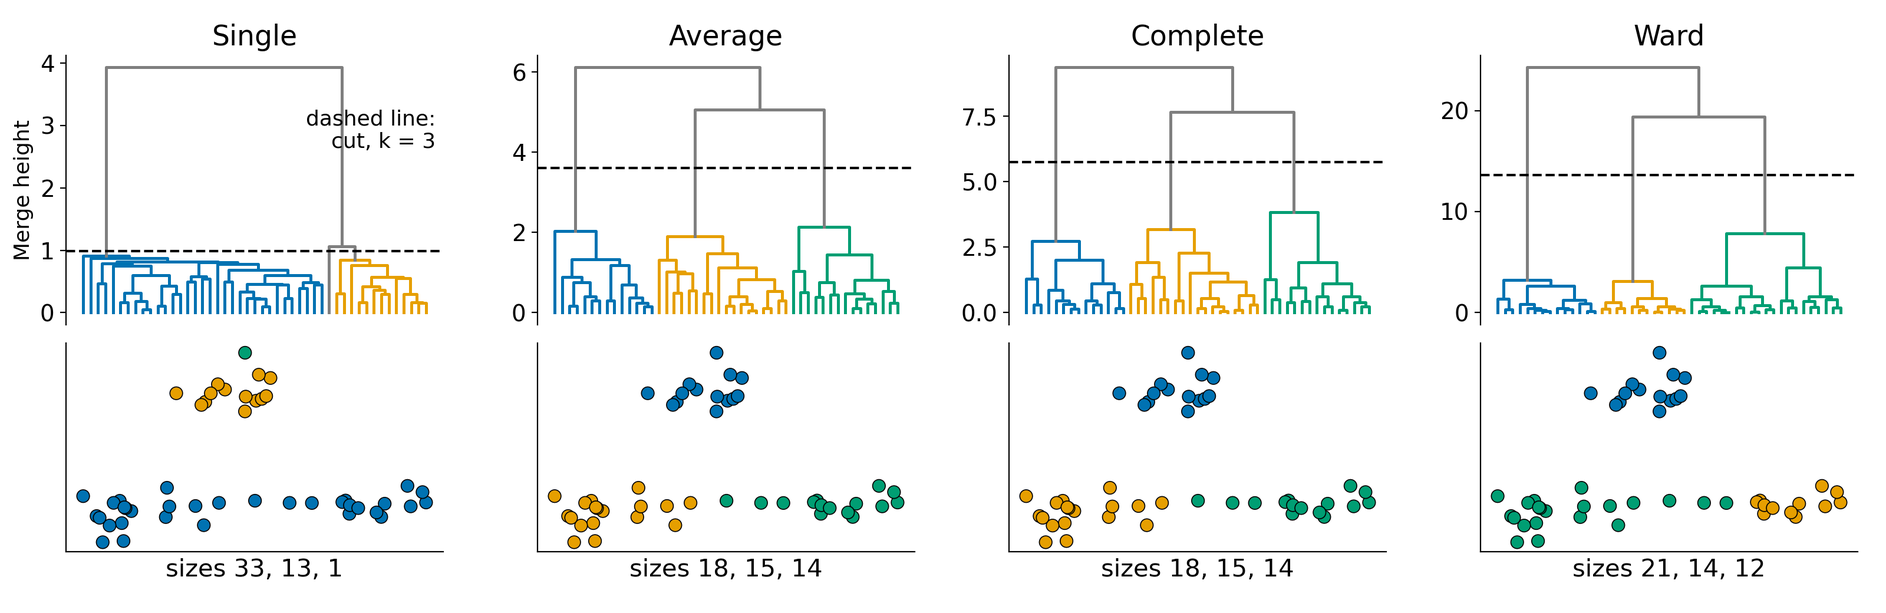
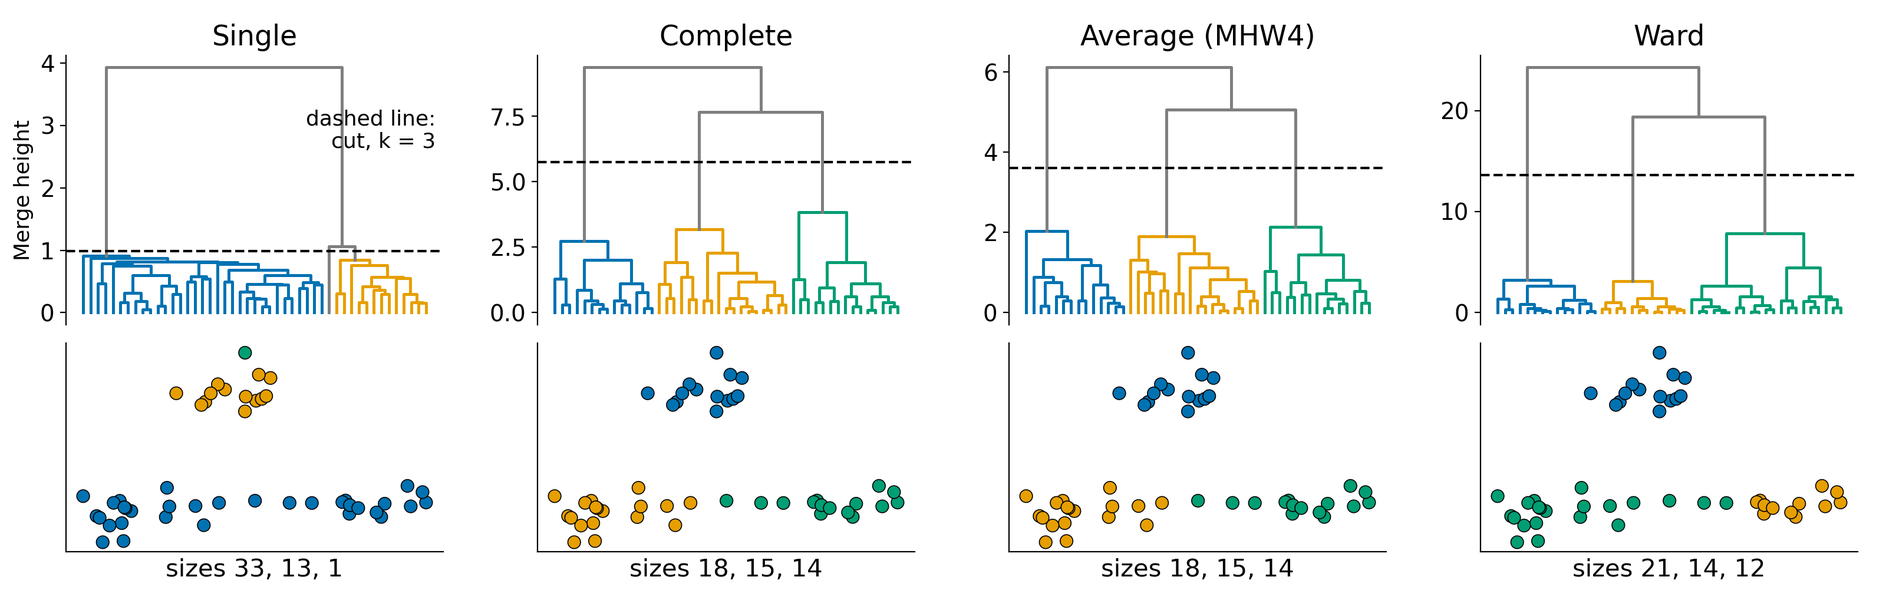
docs: actualiza el deck ReMoHES 2026

diff --git a/docs/remohes2026_deck/index.html b/docs/remohes2026_deck/index.html
@@ -177,8 +177,8 @@ Francois Colas
 </video>
 </div><div class="column" style="width:25%;">
 <ul>
-<li>El calor anómalo aparece, crece, se desplaza y se fragmenta</li>
-<li>El Niño 2023-2024: el último que recordamos</li>
+<li>El calentamiento aparece, crece, se desplaza y se fragmenta</li>
+<li>El Niño 2023-2024: el último gran calentamiento</li>
 <li>¿Qué píxeles forman la misma ola de calor?</li>
 </ul>
 </div></div>
@@ -199,8 +199,8 @@ Francois Colas
           display:block!important;
       }</style></aside>
 </section>
-<section id="detección-de-ocm" class="slide level2">
-<h2>Detección de OCM</h2>
+<section id="detección-de-ocm-hobday-et-al.-2016" class="slide level2">
+<h2>Detección de OCM (Hobday et al., 2016)</h2>
 <!-- [2] -->
 <img data-src="assets/i1b_mhw_definition.png" class="r-stretch" alt="Serie diaria sintética en Ilo con climatología, umbral P90, una ola de calor marina con su duración, intensidad máxima e intensidad acumulada, y un pico corto que no llega a 5 días">
 <div class="caption">
@@ -511,15 +511,15 @@ Francois Colas
 <section id="cómo-elegir-k" class="slide level2">
 <h2>Cómo elegir k</h2>
 <!-- [15] -->
-<p><img data-src="assets/c6_choose_k.png" alt="Inercia, silhouette media y estabilidad ARI entre submuestras frente a k, para los mismos puntos del interactivo" height="400"></p>
+<p><img data-src="assets/c6_choose_k.png" alt="Inercia y silhouette media frente a k, y silhouette de cada punto con k = 4, para los mismos puntos del interactivo" height="400"></p>
 <div class="columns formula">
 <div class="column" style="width:50%;">
-<p><strong>Silhouette</strong> de un evento <span class="math inline">\(i\)</span>: <span class="math display">\[s(i) = \frac{b(i) - a(i)}{\max\{a(i),\, b(i)\}} \in [-1, 1]\]</span> <span class="math inline">\(a(i)\)</span>: distancia media a los <strong>otros</strong> eventos de su grupo; <span class="math inline">\(b(i) = \min_{C \neq C(i)}\)</span> distancia media de <span class="math inline">\(i\)</span> a los eventos de <span class="math inline">\(C\)</span>. Se promedia sobre todos los eventos (<span class="math inline">\(s = 0\)</span> si el grupo tiene un solo evento).</p>
+<p><strong>Silhouette</strong> de un evento <span class="math inline">\(i\)</span>: <span class="math display">\[s(i) = \frac{b(i) - a(i)}{\max\{a(i),\, b(i)\}} \in [-1, 1]\]</span> <span class="math inline">\(a(i)\)</span>: distancia media a los <strong>otros</strong> eventos de su grupo; <span class="math inline">\(b(i) = \min_{C \neq C(i)}\)</span> distancia media de <span class="math inline">\(i\)</span> a los eventos de <span class="math inline">\(C\)</span> (<span class="math inline">\(s = 0\)</span> si el grupo tiene un solo evento).</p>
 </div><div class="column" style="width:50%;">
-<p><strong>Estabilidad (ARI)</strong>: dos submuestras del 80 % se agrupan con el mismo <span class="math inline">\(k\)</span> y sus particiones se comparan en los eventos que comparten: <span class="math display">\[\mathrm{ARI} = \frac{\mathrm{RI} - \mathbb{E}[\mathrm{RI}]}{\max \mathrm{RI} - \mathbb{E}[\mathrm{RI}]}\]</span> 1 = misma partición; ≈ 0 = coincidencia al azar. Cada corte se juzga con silhouette, ARI y tamaño de los grupos; los cortes se eligen a mano.</p>
+<p><strong>Cómo se lee</strong> cada barra: <span class="math inline">\(s \approx 1\)</span>, bien dentro de su grupo; <span class="math inline">\(s \approx 0\)</span>, en la frontera; <span class="math inline">\(s &lt; 0\)</span>, más cerca de otro grupo. La media resume, pero la distribución muestra qué grupos son compactos y qué eventos quedan en el borde. Cada corte se juzga con silhouette, estabilidad (respaldo) y tamaño de los grupos.</p>
 </div></div>
 <aside class="notes">
-<p>Los mismos puntos del interactivo de k-means (20 arranques por k): el codo de W y la silhouette coinciden en k = 4. La W óptima no aumenta al añadir grupos, por eso se busca el codo y no el mínimo. En los datos reales ningún índice decide solo: el ARI (índice de Rand ajustado) mide cuánto se repite la partición al submuestrear; RI es la fracción de pares de eventos en los que las dos particiones coinciden (juntos o separados), y el ARI descuenta lo esperable al azar. Un grupo muy pequeño no se interpreta.</p>
+<p>Los mismos puntos del interactivo de k-means (20 arranques por k): el codo de W y la silhouette media coinciden en k = 4. A la derecha, la silhouette de cada punto con k = 4: los cuatro grupos tienen barras parecidas y solo 1 de 118 puntos queda por debajo de 0. La estabilidad ante submuestreo (ARI) está en el respaldo. La W óptima no aumenta al añadir grupos, por eso se busca el codo y no el mínimo. En los datos reales ningún índice decide solo: el ARI (índice de Rand ajustado) mide cuánto se repite la partición al submuestrear; RI es la fracción de pares de eventos en los que las dos particiones coinciden (juntos o separados), y el ARI descuenta lo esperable al azar. Un grupo muy pequeño no se interpreta.</p>
 <style type="text/css">
         span.MJX_Assistive_MathML {
           position:absolute!important;
@@ -532,20 +532,20 @@ Francois Colas
           display:block!important;
       }</style></aside>
 </section>
-<section id="distancias-con-rasgos-tensoriales" class="slide level2">
-<h2>Distancias con rasgos tensoriales</h2>
+<section id="distancias-con-rasgos-tensoriales-stefanon-et-al.-2012" class="slide level2">
+<h2>Distancias con rasgos tensoriales (Stefanon et al., 2012)</h2>
 <!-- [16] -->
 <div class="columns">
 <div class="column" style="width:70%;">
 <p><img data-src="assets/results_deck/tensor_pair.png" alt="Mapas de intensidad media de las olas de calor MHW 1997-1998 y MHW 2021-2024, sus 6 rasgos escalares, y la distancia del par entre todos los pares según escalares y según mapas"></p>
 </div><div class="column formula" style="width:30%;">
-<p><strong>Escalares</strong> (<span class="math inline">\(p = 6\)</span> rasgos escalados): <span class="math display">\[d_E(A,B) = \frac{\lVert \mathbf{x}_A - \mathbf{x}_B \rVert}{\sqrt{p}}\]</span> <strong>Mapas</strong>: <span class="math inline">\(\bar{I}(x)\)</span> = en cada celda, media sobre los días del evento de la intensidad de su evento local. <span class="math inline">\(\mathbf{u}_A\)</span> = ese mapa suavizado (<span class="math inline">\(\sigma = 50\)</span> km), como vector de celdas oceánicas con <span class="math inline">\(\lVert \mathbf{u}_A \rVert = 1\)</span>: <span class="math display">\[d_{\cos}(A,B) = 1 - \mathbf{u}_A \cdot \mathbf{u}_B\]</span></p>
+<p><strong>Escalares</strong> (<span class="math inline">\(p = 6\)</span> rasgos escalados): <span class="math display">\[d_E(A,B) = \frac{\lVert \mathbf{x}_A - \mathbf{x}_B \rVert}{\sqrt{p}}\]</span> <strong>Mapas</strong>, con <span class="math inline">\(T_x\)</span> = días en que la celda <span class="math inline">\(x\)</span> está dentro del evento: <span class="math display">\[D(x) = |T_x|, \qquad \bar{I}(x) = \frac{1}{D(x)} \sum_{t \in T_x} I(x,t)\]</span> (<span class="math inline">\(0\)</span> si la celda no está en el evento). <span class="math inline">\(\mathbf{u}_A\)</span> = el mapa suavizado (<span class="math inline">\(\sigma = 50\)</span> km), como vector de celdas oceánicas con <span class="math inline">\(\lVert \mathbf{u}_A \rVert = 1\)</span>: <span class="math display">\[d_{\cos}(A,B) = 1 - \mathbf{u}_A \cdot \mathbf{u}_B\]</span></p>
 </div></div>
 <div class="caption">
 <p>Detector standard, conectividad 6: los 134 eventos del 10 % superior por área máxima entre los que tocan la franja de 200 km. Cada distancia se divide por la mediana de las distancias positivas.</p>
 </div>
 <aside class="notes">
-<p>Por sus 6 números estas dos olas de calor (MHW 1997-1998 y MHW 2021-2024; nombres por los años que abarcan, son pseudoetiquetas) son un par corriente (el 29 % de los pares está más cerca); por su mapa son el par más parecido de la cohorte (ningún par está más cerca). El coseno compara la forma del mapa, no su nivel: no cambia si un mapa se multiplica por una constante positiva. Celdas oceánicas sin el evento valen 0 antes de suavizar. Nuestra clasificación usa enlace promedio sobre la matriz de disimilitud coseno; k-means sobre los vectores de mapas o Ward con distancia euclidiana serían posibles, pero son otros procedimientos. La MHW 2021-2024 empieza antes de El Niño 2023-2024 y abarca su ventana; llega al final del registro.</p>
+<p>Por sus 6 números estas dos olas de calor (MHW 1997-1998 y MHW 2021-2024; nombres por los años que abarcan, son pseudoetiquetas) son un par corriente (el 29 % de los pares está más cerca); por su mapa son uno de los pares más parecidos de la cohorte (solo 3 de los 8 911 pares están más cerca). El coseno compara la forma del mapa, no su nivel: no cambia si un mapa se multiplica por una constante positiva. Celdas oceánicas sin el evento valen 0 antes de suavizar. Nuestra clasificación usa enlace promedio sobre la matriz de disimilitud coseno; k-means sobre los vectores de mapas o Ward con distancia euclidiana serían posibles, pero son otros procedimientos. La MHW 2021-2024 empieza antes de El Niño 2023-2024 y abarca su ventana; llega al final del registro.</p>
 <style type="text/css">
         span.MJX_Assistive_MathML {
           position:absolute!important;
@@ -580,19 +580,10 @@ Francois Colas
 <section id="criterios-de-enlace" class="slide level2">
 <h2>Criterios de enlace</h2>
 <!-- [18] -->
-
-<img data-src="assets/c4_linkage_criteria.png" style="width:100.0%" alt="Cuatro dendrogramas y particiones con k=3: single, average, complete, Ward" class="r-stretch"><div class="columns formula">
-<div class="column" style="width:25%;">
-<p><strong>Simple</strong> <span class="math display">\[d(A,B) = \min_{a \in A,\, b \in B} d(a,b)\]</span></p>
-</div><div class="column" style="width:25%;">
-<p><strong>Promedio</strong> (MHW) <span class="math display">\[d(A,B) = \frac{1}{|A|\,|B|} \sum_{a \in A} \sum_{b \in B} d(a,b)\]</span></p>
-</div><div class="column" style="width:25%;">
-<p><strong>Completo</strong> <span class="math display">\[d(A,B) = \max_{a \in A,\, b \in B} d(a,b)\]</span></p>
-</div><div class="column" style="width:25%;">
-<p><strong>Ward</strong> <span class="math display">\[\Delta(A,B) = \frac{|A|\,|B|}{|A|+|B|} \lVert \boldsymbol{\mu}_A - \boldsymbol{\mu}_B \rVert^2\]</span></p>
-</div></div>
+<p><img data-src="assets/c4b_linkage_distance.png" alt="Dos grupos de puntos, A y B, y cómo mide su distancia cada criterio: par más cercano, par más lejano, media de los 12 pares y aumento de la inercia de Ward" height="330"></p>
+<p><img data-src="assets/c4_linkage_criteria.png" alt="Cuatro dendrogramas y particiones con k=3: single, complete, average, Ward" height="380"></p>
 <aside class="notes">
-<p>Simple encadena por puentes; completo da grupos compactos; Ward mide el aumento de la inercia al unir y supone distancias euclidianas entre vectores; promedio usa la distancia media entre pares y se puede aplicar a cualquier matriz de disimilitud, también a la coseno (que no es euclidiana y puede no cumplir la desigualdad triangular): por eso MHW4 lo usa con mapas.</p>
+<p>Arriba, cómo se calcula la distancia entre dos grupos A y B: simple, el par más cercano; completo, el más lejano; promedio, la media de todos los pares; Ward, cuánto crece la suma de cuadrados al unir (su valor está en otra escala). Abajo, el resultado de cada criterio con k = 3. Simple encadena por puentes; completo da grupos compactos; Ward mide el aumento de la inercia al unir y supone distancias euclidianas entre vectores; promedio usa la distancia media entre pares y se puede aplicar a cualquier matriz de disimilitud, también a la coseno (que no es euclidiana y puede no cumplir la desigualdad triangular): por eso MHW4 lo usa con mapas.</p>
 <style type="text/css">
         span.MJX_Assistive_MathML {
           position:absolute!important;
@@ -615,7 +606,7 @@ Francois Colas
 <!-- [R1] -->
 <img data-src="assets/results_deck/domains.png" class="r-stretch" alt="Mapa de los dominios: Pacífico, franja costera de 200 km (principal), franja de 300 km y caja Perú, con su número de celdas">
 <div class="caption">
-<p>Dominio principal: franja costera de 200 km (distancia a la costa continental entre 25°S y 5°N; 1 156 celdas). Un evento entra en un dominio si toca alguna de sus celdas. Todos los resultados: detector standard (Hobday), conectividad 6.</p>
+<p>Dominio principal: franja costera de 200 km (distancia a la costa continental entre 25°S y 5°N; 1 156 celdas). Un evento entra en un dominio si toca alguna de sus celdas. Como referencia, las regiones de los índices: Niño 1+2 (ICEN) y Niño 3 (ONI, que usa Niño 3.4; Niño 3 es la región de respuesta del Pacífico oriental). Todos los resultados: detector standard (Hobday), conectividad 6.</p>
 </div>
 <aside class="notes">
 <p>Todo lo que sigue es para la franja de 200 km. El Pacífico da contexto; la franja de 300 km y la caja Perú son sensibilidad. El Atlántico se detecta pero queda fuera.</p>
@@ -714,36 +705,15 @@ Francois Colas
           display:block!important;
       }</style></aside>
 </section>
-<section id="la-actividad-costera-sigue-al-icen" class="slide level2">
-<h2>La actividad costera sigue al ICEN</h2>
-<!-- [R4] → conclusión 3 -->
-<img data-src="assets/results_deck/activity_vs_oni_icen.png" class="r-stretch" alt="Porcentaje mensual del Pacífico y de la franja bajo ola de calor frente a ONI e ICEN, con la correlación según el desfase">
-<div class="caption">
-<p>1982-2024: a desfase cero, el porcentaje mensual de la franja bajo ola de calor correlaciona r = 0,84 con el ICEN; el del Pacífico, r = 0,52 con el ONI.</p>
-</div>
-<aside class="notes">
-<p>El ICEN mide El Niño costero (Niño 1+2); el ONI, el del Pacífico central. La franja responde al costero. Banda: intervalo del 95 % por remuestreo de bloques de 12 meses. Es coherencia con un índice de TSM, no una prueba causal.</p>
-<style type="text/css">
-        span.MJX_Assistive_MathML {
-          position:absolute!important;
-          clip: rect(1px, 1px, 1px, 1px);
-          padding: 1px 0 0 0!important;
-          border: 0!important;
-          height: 1px!important;
-          width: 1px!important;
-          overflow: hidden!important;
-          display:block!important;
-      }</style></aside>
-</section>
-<section id="unos-pocos-eventos-dominan-por-eso-separamos-el-10-mayor" class="slide level2">
-<h2>Unos pocos eventos dominan: por eso separamos el 10 % mayor</h2>
+<section id="unos-pocos-eventos-dominan-separamos-el-10-mayor" class="slide level2">
+<h2>Unos pocos eventos dominan: separamos el 10 % mayor</h2>
 <!-- [R6] -->
 <img data-src="assets/results_deck/concentration.png" class="r-stretch" alt="Fracción acumulada de celdas-día del Pacífico y de la franja según el rango de los eventos">
 <div class="caption">
-<p>Cómo leerla: los eventos se ordenan de mayor a menor por sus celdas-día dentro del dominio (eje x, escala log) y la curva suma su aporte. En la franja, 3 de 1 334 eventos superan la mitad de las celdas-día; se agrupan aparte los 134 eventos con mayor área máxima (10 %).</p>
+<p>Cómo leerla: los eventos se ordenan de mayor a menor por sus celdas-día dentro del dominio (eje x, escala log) y la curva suma su aporte. En la franja, 3 de 1 334 eventos superan la mitad de las celdas-día; se agrupan aparte los 134 eventos con mayor área máxima (10 %). La cohorte son los 134 eventos con <span class="math inline">\(A_{max} \ge 125\)</span> celdas (≈ 94 000 km²: celdas de 0,25°, unos 750 km² cada una en la latitud de la franja).</p>
 </div>
 <aside class="notes">
-<p>Celda-día: una celda del dominio en un día dentro de un evento. La curva parte del evento más grande: en la franja aporta el 22 %; con el segundo, el 41 %; con el tercero, el 57 %. El punto negro marca cuántos eventos hacen falta para llegar al 50 % (línea punteada): 3 en la franja y 4 en el Pacífico. La línea azul discontinua marca el 10 % mayor: más allá, los eventos restantes suman poco cada uno. Es una decisión de método, no una prueba: con una actividad tan concentrada, mezclar eventos gigantes y pequeños haría que el tamaño dominara la distancia. El 10 % se toma por área máxima global, no por celdas-día, de modo que el corte en la curva es aproximado.</p>
+<p>Celda-día: una celda del dominio en un día dentro de un evento. La curva parte del evento más grande: en la franja aporta el 22 %; con el segundo, el 41 %; con el tercero, el 57 %. El punto negro marca cuántos eventos hacen falta para llegar al 50 % (línea punteada): 3 en la franja y 4 en el Pacífico. La línea azul discontinua marca el 10 % mayor: más allá, los eventos restantes suman poco cada uno. Es una decisión de método, no una consecuencia de la curva: la cohorte delimita el objeto de estudio, los eventos grandes que concentran la actividad. La normalización L2 quita la amplitud de cada mapa, pero la extensión sí cambia su forma; con unos 1 200 eventos pequeños en el mismo análisis, la clasificación se ocuparía sobre todo de ellos. El 10 % se toma por área máxima global, no por celdas-día, de modo que el corte en la curva es aproximado.</p>
 <style type="text/css">
         span.MJX_Assistive_MathML {
           position:absolute!important;
@@ -764,7 +734,7 @@ Francois Colas
 <p>134 eventos mayores, 4 clases por la forma de su mapa de intensidad media Ī (suavizado 50 km, distancia coseno, enlace promedio, k = 4). Color: porcentaje de los eventos de la clase que pasan por cada celda.</p>
 </div>
 <aside class="notes">
-<p>Clases de 66, 52, 13 y 3 eventos. C1 cubre todo el dominio, con más frecuencia en la costa norte y Ecuador; C2 el subtrópico y la costa sur; C3 la costa central de Perú; C4 la costa sur de Perú (3 eventos, evidencia limitada, pero el grupo aparece igual con k = 4, 6 y 8). Corte k = 4 (elegido por el usuario): el más estable de k = 4, 6 y 8 (respaldo).</p>
+<p>Clases de 66, 52, 13 y 3 eventos. C1 cubre todo el dominio, con más frecuencia en la costa norte y Ecuador; C2 el subtrópico y la costa sur; C3 la costa central de Perú; C4 la costa sur de Perú (3 eventos, evidencia limitada, pero el grupo aparece igual con k = 4, 6 y 8). Corte k = 4 (elegido por el usuario): el de mayor ARI medio entre k = 4, 6 y 8, sin clases de un solo evento (respaldo).</p>
 <style type="text/css">
         span.MJX_Assistive_MathML {
           position:absolute!important;
@@ -861,8 +831,8 @@ Francois Colas
           display:block!important;
       }</style></aside>
 </section>
-<section id="episodios-conocidos-con-las-clases-de-duración-d" class="slide level2">
-<h2>Episodios conocidos con las clases de duración D</h2>
+<section id="episodios-conocidos-con-las-clases-de-días-activos-d" class="slide level2">
+<h2>Episodios conocidos con las clases de días activos D</h2>
 <!-- [R8] → conclusión 5 -->
 <img data-src="assets/results_deck/episodes_by_class_B.png" class="r-stretch" alt="Eventos por clase del corte por días activos, con los eventos principales de los episodios conocidos: 9 en C1 y El Niño 1991-92 en C2">
 <div class="caption">
@@ -893,18 +863,19 @@ Francois Colas
 <div class="column" style="width:55%;">
 <p><strong>Conclusiones</strong></p>
 <ol type="1">
-<li>Una ola de calor conectada no es un episodio: un evento puede abarcar varios El Niño o viceversa</li>
+<li>Una ola de calor marina no es un evento puntual sino un calentamiento en el espacio-tiempo</li>
 <li>El recuento depende de la conectividad; 18 y 26 casi coinciden</li>
-<li>La actividad costera mensual sigue al ICEN: r = 0,84 a desfase cero</li>
-<li>Los eventos mayores (top 10 %) se agrupan sobre todo por dónde ocurren, con mapas de intensidad o de días activos</li>
-<li>Los episodios de El Niño conocidos caen casi todos en una misma clase: 10 de 10 (intensidad), 9 de 10 (días activos)</li>
+<li>Una ola de calor marina se puede caracterizar mediante métricas escalares y tensoriales</li>
+<li>Los eventos grandes (top 10 %) se agrupan sobre todo por dónde ocurren, con mapas de intensidad o de días activos</li>
+<li>Una ola de calor marina no es un episodio El Niño: puede abarcar varios El Niño o viceversa.</li>
+<li>Los episodios El Niño caen casi todos en una misma clase: 10 de 10 (intensidad), 9 de 10 (días activos)</li>
 </ol>
 </div><div class="column" style="width:45%;">
 <p><strong>Perspectivas</strong></p>
 <ul>
 <li>Caracterizar cada evento con campos atmosféricos y oceánicos (ERA5, GLORYS)</li>
 <li>Estudiar los mecanismos físicos por clase</li>
-<li>Clases con el detector variable y cortes definitivos</li>
+<li>Clases con el detector variable (Bonino et al., 2023) y cortes definitivos</li>
 </ul>
 </div></div>
 <aside class="notes">
@@ -930,6 +901,63 @@ Francois Colas
 <h1>Respaldo</h1>
 
 </section>
+<section id="dendrograma-clases-por-intensidad-media-ī" class="slide level2">
+<h2>Dendrograma: clases por intensidad media Ī</h2>
+<img data-src="assets/results_deck/dendrogram_A.png" class="r-stretch" alt="Dendrograma del corte por intensidad media, k = 4">
+</section>
+<section id="dendrograma-clases-por-días-activos-d" class="slide level2">
+<h2>Dendrograma: clases por días activos D</h2>
+<img data-src="assets/results_deck/dendrogram_B.png" class="r-stretch" alt="Dendrograma del corte por días activos, k = 4">
+</section>
+<section id="el-niño-1991-1992-en-la-franja-costera" class="slide level2">
+<h2>El Niño 1991-1992 en la franja costera</h2>
+<div class="columns">
+<div class="column" style="width:68%;">
+<p><img data-src="assets/results_deck/episode_en1991_92.png" alt="Índices ONI e ICEN, porcentaje del Pacífico y de la franja bajo ola de calor, y mapas de días dentro de un evento e intensidad media, El Niño 1991-92"></p>
+</div><div class="column" style="width:32%;">
+<ul>
+<li>El ICEN llega a +2,0 °C en abril de 1992</li>
+<li>Respuesta tardía en la franja: marzo-mayo de 1992 (pico del 70 % el 1 de abril); en la ventana, solo el 11 % de media</li>
+<li>Evento principal: 148 días (febrero-julio 1992)</li>
+</ul>
+</div></div>
+<div class="caption">
+<p>Ventana del episodio: junio 1991 - junio 1992 (sombreado). Mismas medidas que El Niño 2023-24.</p>
+</div>
+<aside class="notes">
+<p>Episodio moderado y de respuesta costera tardía. Sus mapas son de la ventana y de cualquier evento; la diapositiva siguiente muestra los mapas del evento principal, que son los que entran al clustering.</p>
+<style type="text/css">
+        span.MJX_Assistive_MathML {
+          position:absolute!important;
+          clip: rect(1px, 1px, 1px, 1px);
+          padding: 1px 0 0 0!important;
+          border: 0!important;
+          height: 1px!important;
+          width: 1px!important;
+          overflow: hidden!important;
+          display:block!important;
+      }</style></aside>
+</section>
+<section id="el-niño-1991-1992-su-clase-depende-del-mapa" class="slide level2">
+<h2>El Niño 1991-1992: su clase depende del mapa</h2>
+<img data-src="assets/results_deck/event_6016_classes.png" class="r-stretch" alt="Mapas A y B suavizados del evento principal de El Niño 1991-92 y su distancia media a cada clase">
+<div class="caption">
+<p>Con mapas de intensidad (A) pesa la lengua ecuatorial y la costa norte, y queda más cerca de C1; con días activos (B) pesa la costa central de Perú y la banda subtropical, y queda más cerca de C2. Las distancias a las clases son parecidas: es un evento de frontera (silhouette 0,06 con A y 0,04 con B).</p>
+</div>
+<aside class="notes">
+<p>A y B miden cosas distintas del mismo evento: dónde fue intenso y dónde duró. Un evento cuyo calentamiento intenso fue ecuatorial y breve, y cuya permanencia fue costera y subtropical, puede caer en clases distintas. La barra es la distancia media a los miembros de cada clase, que es lo que compara el enlace promedio; el árbol une grupos, no asigna eventos uno a uno, así que es una lectura, no la regla exacta de asignación.</p>
+<style type="text/css">
+        span.MJX_Assistive_MathML {
+          position:absolute!important;
+          clip: rect(1px, 1px, 1px, 1px);
+          padding: 1px 0 0 0!important;
+          border: 0!important;
+          height: 1px!important;
+          width: 1px!important;
+          overflow: hidden!important;
+          display:block!important;
+      }</style></aside>
+</section>
 <section id="un-evento-conectado-puede-abarcar-varios-episodios" class="slide level2">
 <h2>Un evento conectado puede abarcar varios episodios</h2>
 <!-- [R5] → conclusión 1 -->
@@ -951,14 +979,15 @@ Francois Colas
           display:block!important;
       }</style></aside>
 </section>
-<section id="cómo-elegimos-el-corte" class="slide level2">
-<h2>Cómo elegimos el corte</h2>
-<img data-src="assets/results_deck/cut_choice.png" class="r-stretch" alt="Silhouette, estabilidad ARI y tamaño de la clase más pequeña para k = 4, 6 y 8, con mapas de intensidad y de días activos">
+<section id="la-actividad-costera-sigue-al-icen" class="slide level2">
+<h2>La actividad costera sigue al ICEN</h2>
+<!-- [R4] → conclusión 3 -->
+<img data-src="assets/results_deck/activity_vs_oni_icen.png" class="r-stretch" alt="Porcentaje mensual del Pacífico y de la franja bajo ola de calor frente a ONI e ICEN, con la correlación según el desfase">
 <div class="caption">
-<p>k = 4 es el corte más estable en las dos representaciones; k = 8 tiene mejor silhouette pero deja una clase de un solo evento.</p>
+<p>1982-2024: a desfase cero, el porcentaje mensual de la franja bajo ola de calor correlaciona r = 0,84 con el ICEN; el del Pacífico, r = 0,52 con el ONI.</p>
 </div>
 <aside class="notes">
-<p>Estabilidad: 200 submuestras del 80 % de los eventos, se recorta el árbol de cada una y se compara con el corte completo (ARI medio y percentil 10). Ī: ARI 0,93 / 0,87 / 0,76 para k = 4 / 8 / 6. D: 0,80 / 0,79 / 0,77.</p>
+<p>El ICEN mide El Niño costero (Niño 1+2); el ONI, el del Pacífico central. La franja responde al costero. Banda: intervalo del 95 % por remuestreo de bloques de 12 meses. Es coherencia con un índice de TSM, no una prueba causal. La actividad costera mensual sigue al ICEN: r = 0,84 a desfase cero</p>
 <style type="text/css">
         span.MJX_Assistive_MathML {
           position:absolute!important;
@@ -970,14 +999,6 @@ Francois Colas
           overflow: hidden!important;
           display:block!important;
       }</style></aside>
-</section>
-<section id="dendrograma-clases-por-intensidad-media-ī" class="slide level2">
-<h2>Dendrograma: clases por intensidad media Ī</h2>
-<img data-src="assets/results_deck/dendrogram_A.png" class="r-stretch" alt="Dendrograma del corte por intensidad media, k = 4">
-</section>
-<section id="dendrograma-clases-por-días-activos-d" class="slide level2">
-<h2>Dendrograma: clases por días activos D</h2>
-<img data-src="assets/results_deck/dendrogram_B.png" class="r-stretch" alt="Dendrograma del corte por días activos, k = 4">
 
 </section></section>
     </div>
